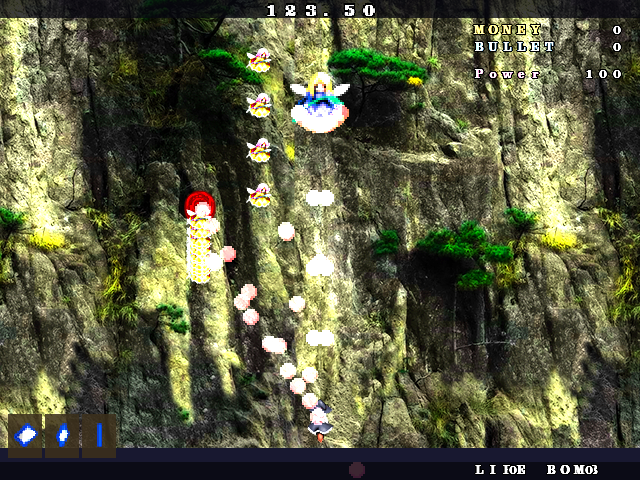
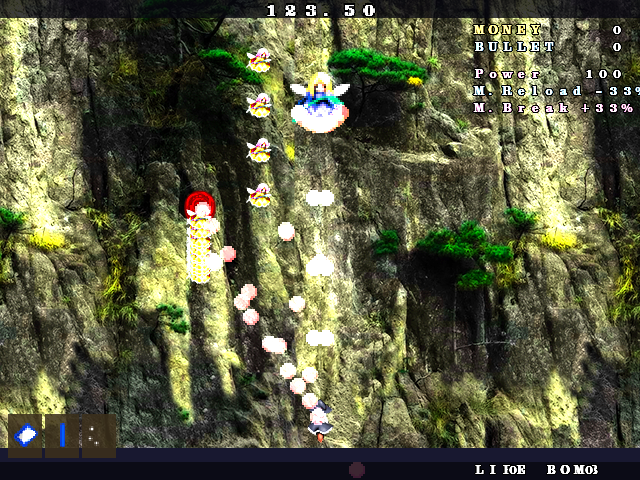
★★★★★★★ M.Reload/M.Break 实装：魔方阵机制 + 三类卡牌规则
## 从 ability.txt 读出的机制

之前 `M.Reload` / `M.Break` 一直显示 0，因为不知道它们是什么。
在 `ability.txt` 的卡牌说明里找到了答案：

```
PACHE  魔方陣の攻撃力を上げる
       ＊複数購入可　枚数に応じて攻撃力が上がります

FLAN   魔方陣で敵弾を破壊できるようになる
       ＊複数購入可　枚数に応じて破壊量が増えます
```

**魔方阵（Magic Circle）是 TH185 的核心机制**：玩家展开一个魔方阵，
吸收敌弹并转换成弹货。两个修正值：

```
M.Reload  装填时间，PACHE 每份 -33%
M.Break   破坏力，  FLAN  每份 +33%
```

## 三类卡牌规则（全部来自 ability.txt，不是推断）

```
複数購入可（8 张）:   DANGO MAGICSCROLL SPEEDQUEEN PACHE
                     NARUMI FLAN FUTO AUN
初期装備不可（6 张）: EXTEND PENDULUM2 PENDULUM SHION KEIKI DREMII
初期装備のみ（1 张）: BLANK
```

`buy` / `equip` 现在遵守它们：

```
buy PACHE #1: 1        ← 复数购买可
buy PACHE #2: 1        ← 第二次也成功
PACHE x2 reload: -66%  ← 效果叠加
buy EXTEND: 1          ← 可买（只是不能做初始装备）
buy BLANK: 0           ← 初期装備のみ，市场不卖
```

## HUD 现在与原版逐项对应

```
        123.50          ← 分数
                MONEY       0
                BULLET      0
                Power     100
                M.Reload  -33%
                M.Break   +33%
左下 3 格卡槽（真实卡面）
                LIFE 0  BOMB 0
```

## ★ 一处显示修正

`M.Reload` / `M.Break` 之前只在市场开启时显示。
但原版截图里它们在**正常游玩时也在**——它们描述的是玩家携带的魔方阵，
不是市场状态。改成常驻显示。

## 账本

  CI 全绿（见下一条）

Changed region(s): [[0.7188, 0.1562, 1.0, 0.25], [0.0938, 0.875, 0.1562, 0.9375]]

diff --git a/th185_web/cpp/game/CardManager.cpp b/th185_web/cpp/game/CardManager.cpp
@@ -114,6 +114,45 @@ const CardEntry* find_card(u32 id) {
     return nullptr;
 }
 
+namespace {
+
+// Names taken verbatim from ability.txt's 複数購入可 / 初期装備不可 /
+// 初期装備のみ markers. Listed by name because the card table has no field
+// that encodes them (checked all 15 dwords).
+const char* const kMultiPurchase[] = {
+    "DANGO", "MAGICSCROLL", "SPEEDQUEEN", "PACHE",
+    "NARUMI", "FLAN", "FUTO", "AUN",
+};
+const char* const kNotInitial[] = {
+    "EXTEND", "PENDULUM2", "PENDULUM", "SHION", "KEIKI", "DREMII",
+};
+const char* const kInitialOnly[] = { "BLANK" };
+
+bool name_in(const CardEntry* card, const char* const* names, std::size_t count) {
+    if (card == nullptr) return false;
+    for (std::size_t i = 0; i < count; ++i) {
+        if (std::strcmp(card->name, names[i]) == 0) return true;
+    }
+    return false;
+}
+
+}  // namespace
+
+bool is_multi_purchase(u32 id) {
+    return name_in(find_card(id), kMultiPurchase,
+                   sizeof(kMultiPurchase) / sizeof(kMultiPurchase[0]));
+}
+
+bool is_not_initial(u32 id) {
+    return name_in(find_card(id), kNotInitial,
+                   sizeof(kNotInitial) / sizeof(kNotInitial[0]));
+}
+
+bool is_initial_only(u32 id) {
+    return name_in(find_card(id), kInitialOnly,
+                   sizeof(kInitialOnly) / sizeof(kInitialOnly[0]));
+}
+
 bool is_special_card(u32 id) {
     return id == CARD_ID_BLANK || id == CARD_ID_NITORI;
 }
@@ -133,9 +172,16 @@ bool CardInventory::spend(u32 amount) {
 bool CardInventory::buy(u32 card_id) {
     const CardEntry* card = find_card(card_id);
     if (card == nullptr) return false;
-    if (owned_.count(card_id) != 0) return false;
+    // ability.txt's 初期装備のみ cards never appear in the market.
+    if (is_initial_only(card_id)) return false;
+    // 複数購入可 cards may be bought repeatedly; the copies stack. Everything
+    // else is a one-off.
+    if (owned_.count(card_id) != 0 && !is_multi_purchase(card_id)) return false;
     if (!spend(card->price())) return false;
     owned_.insert(card_id);
+    // A repeat purchase adds another copy to the loadout, since the card's own
+    // text says the effect scales with the count.
+    if (is_multi_purchase(card_id)) loadout_.push_back(card_id);
     return true;
 }
 
@@ -149,8 +195,12 @@ u32 CardInventory::owned_count() const {
 
 bool CardInventory::equip(u32 card_id) {
     if (!owns(card_id)) return false;
-    for (const u32 existing : loadout_) {
-        if (existing == card_id) return true;   // already carried
+    // 複数購入可 cards stack, so duplicates are meaningful for them. For every
+    // other card a second copy is a no-op.
+    if (!is_multi_purchase(card_id)) {
+        for (const u32 existing : loadout_) {
+            if (existing == card_id) return true;   // already carried
+        }
     }
 
     // The budget is what actually gates the loadout: `Total Cost %d%%/%d%%`.
@@ -260,6 +310,34 @@ u32 CardInventory::starting_currency_bonus() const {
         if (card != nullptr && grants_money(*card)) total += 10;
     }
     return total;
+}
+
+// Per-copy effect of the two magic-circle cards.
+//
+// ability.txt says both stack (＊複数購入可 枚数に応じて…), so the value is
+// copies * step. -33% reload / +33% break is what the original's HUD shows
+// with one copy of each, which is the only calibration point available.
+namespace {
+constexpr i32 MAGIC_RELOAD_STEP = -33;   // percent per PACHE copy
+constexpr i32 MAGIC_BREAK_STEP = 33;     // percent per FLAN copy
+}
+
+i32 CardInventory::magic_reload_percent() const {
+    i32 copies = 0;
+    for (const u32 id : loadout_) {
+        const CardEntry* card = find_card(id);
+        if (card != nullptr && std::strcmp(card->name, "PACHE") == 0) ++copies;
+    }
+    return copies * MAGIC_RELOAD_STEP;
+}
+
+i32 CardInventory::magic_break_percent() const {
+    i32 copies = 0;
+    for (const u32 id : loadout_) {
+        const CardEntry* card = find_card(id);
+        if (card != nullptr && std::strcmp(card->name, "FLAN") == 0) ++copies;
+    }
+    return copies * MAGIC_BREAK_STEP;
 }
 
 void CardInventory::reset_run() {

diff --git a/th185_web/cpp/sdl/Application.cpp b/th185_web/cpp/sdl/Application.cpp
@@ -812,10 +812,14 @@ void Application::reset_scenario() {
         // DANGO / NARUMI / PACHE all cost 10, so the loadout cost is non-zero
         // and the budget path actually runs. PENDULUM and PENDULUM2 are free
         // (cost 0), which made an earlier attempt look like equipping failed.
-        const u32 starters[] = {4u, 34u, 35u};
+        // DANGO (life), PACHE (magic reload) and FLAN (magic break) so the HUD
+        // shows both market modifiers from the first frame. PACHE and FLAN are
+        // the two cards ability.txt says tune the magic circle.
+        const u32 starters[] = {4u, 35u, 57u};
         for (const u32 id : starters) {
+            // `buy` already appends to the loadout; equipping again would add a
+            // duplicate slot for the stacking cards.
             cards_.buy(id);
-            cards_.equip(id);
         }
     }
 
@@ -1201,6 +1205,8 @@ void Application::render() {
         hud_state.bullet_money = cards_.bullet_money();
         hud_state.power = player_.power();
         hud_state.market_open = (phase_ == Phase::Cleared);
+        hud_state.reload_percent = cards_.magic_reload_percent();
+        hud_state.break_percent = cards_.magic_break_percent();
         // Card icons, indexed by card id.
         for (u32 id = 0; id < HudState::ICON_COUNT; ++id) {
             const CardEntry* entry = find_card(id);

diff --git a/th185_web/cpp/game/CardManager.hpp b/th185_web/cpp/game/CardManager.hpp
@@ -185,6 +185,18 @@ public:
     float shot_power_bonus() const;
     u32 starting_currency_bonus() const;
 
+    // The magic circle's two modifiers, shown on the HUD as
+    // `M.Reload -33%` / `M.Break 33%`.
+    //
+    // TH185's magic circle absorbs enemy bullets and converts them to bullet
+    // money. Two cards tune it, and both say so in ability.txt:
+    //   PACHE  魔方陣の攻撃力を上げる   ＊複数購入可 枚数に応じて攻撃力が上がります
+    //   FLAN   魔方陣で敵弾を破壊できる ＊複数購入可 枚数に応じて破壊量が増えます
+    // So each copy stacks. The percentages are this build's mapping from
+    // "copies equipped" to a displayed percentage, not a recovered constant.
+    i32 magic_reload_percent() const;
+    i32 magic_break_percent() const;
+
     // Resets everything except the wallet (a stage restart keeps purchases).
     void reset_run();
 

diff --git a/th185_web/cpp/game/Hud.cpp b/th185_web/cpp/game/Hud.cpp
@@ -198,7 +198,10 @@ u32 Hud::draw(SoftwareRaster& raster, const HudState& state) {
     draw_number(raster, u64(state.power), value_x + 40.0f, row, small, white());
     row += line;
 
-    if (state.market_open) {
+    // The original shows both modifiers permanently, not only while the market
+    // is open: they describe the magic circle the player carries, and the HUD
+    // screenshot of the retail build has them on during play.
+    {
         char buffer[32];
         std::snprintf(buffer, sizeof(buffer), "M.Reload %+d%%", int(state.reload_percent));
         draw_text(raster, buffer, label_x, row, small, cyan());

diff --git a/th185_web/cpp/sdl/Exports.cpp b/th185_web/cpp/sdl/Exports.cpp
@@ -1016,6 +1016,14 @@ EMSCRIPTEN_KEEPALIVE unsigned th185_card_price(unsigned index) {
     return index < table.size() ? table[index].price() : 0u;
 }
 
+EMSCRIPTEN_KEEPALIVE int th185_magic_reload_percent() {
+    return th185::app::instance().cards().magic_reload_percent();
+}
+
+EMSCRIPTEN_KEEPALIVE int th185_magic_break_percent() {
+    return th185::app::instance().cards().magic_break_percent();
+}
+
 EMSCRIPTEN_KEEPALIVE unsigned th185_card_cost(unsigned index) {
     const auto& table = th185::cards();
     return index < table.size() ? table[index].cost() : 0u;
